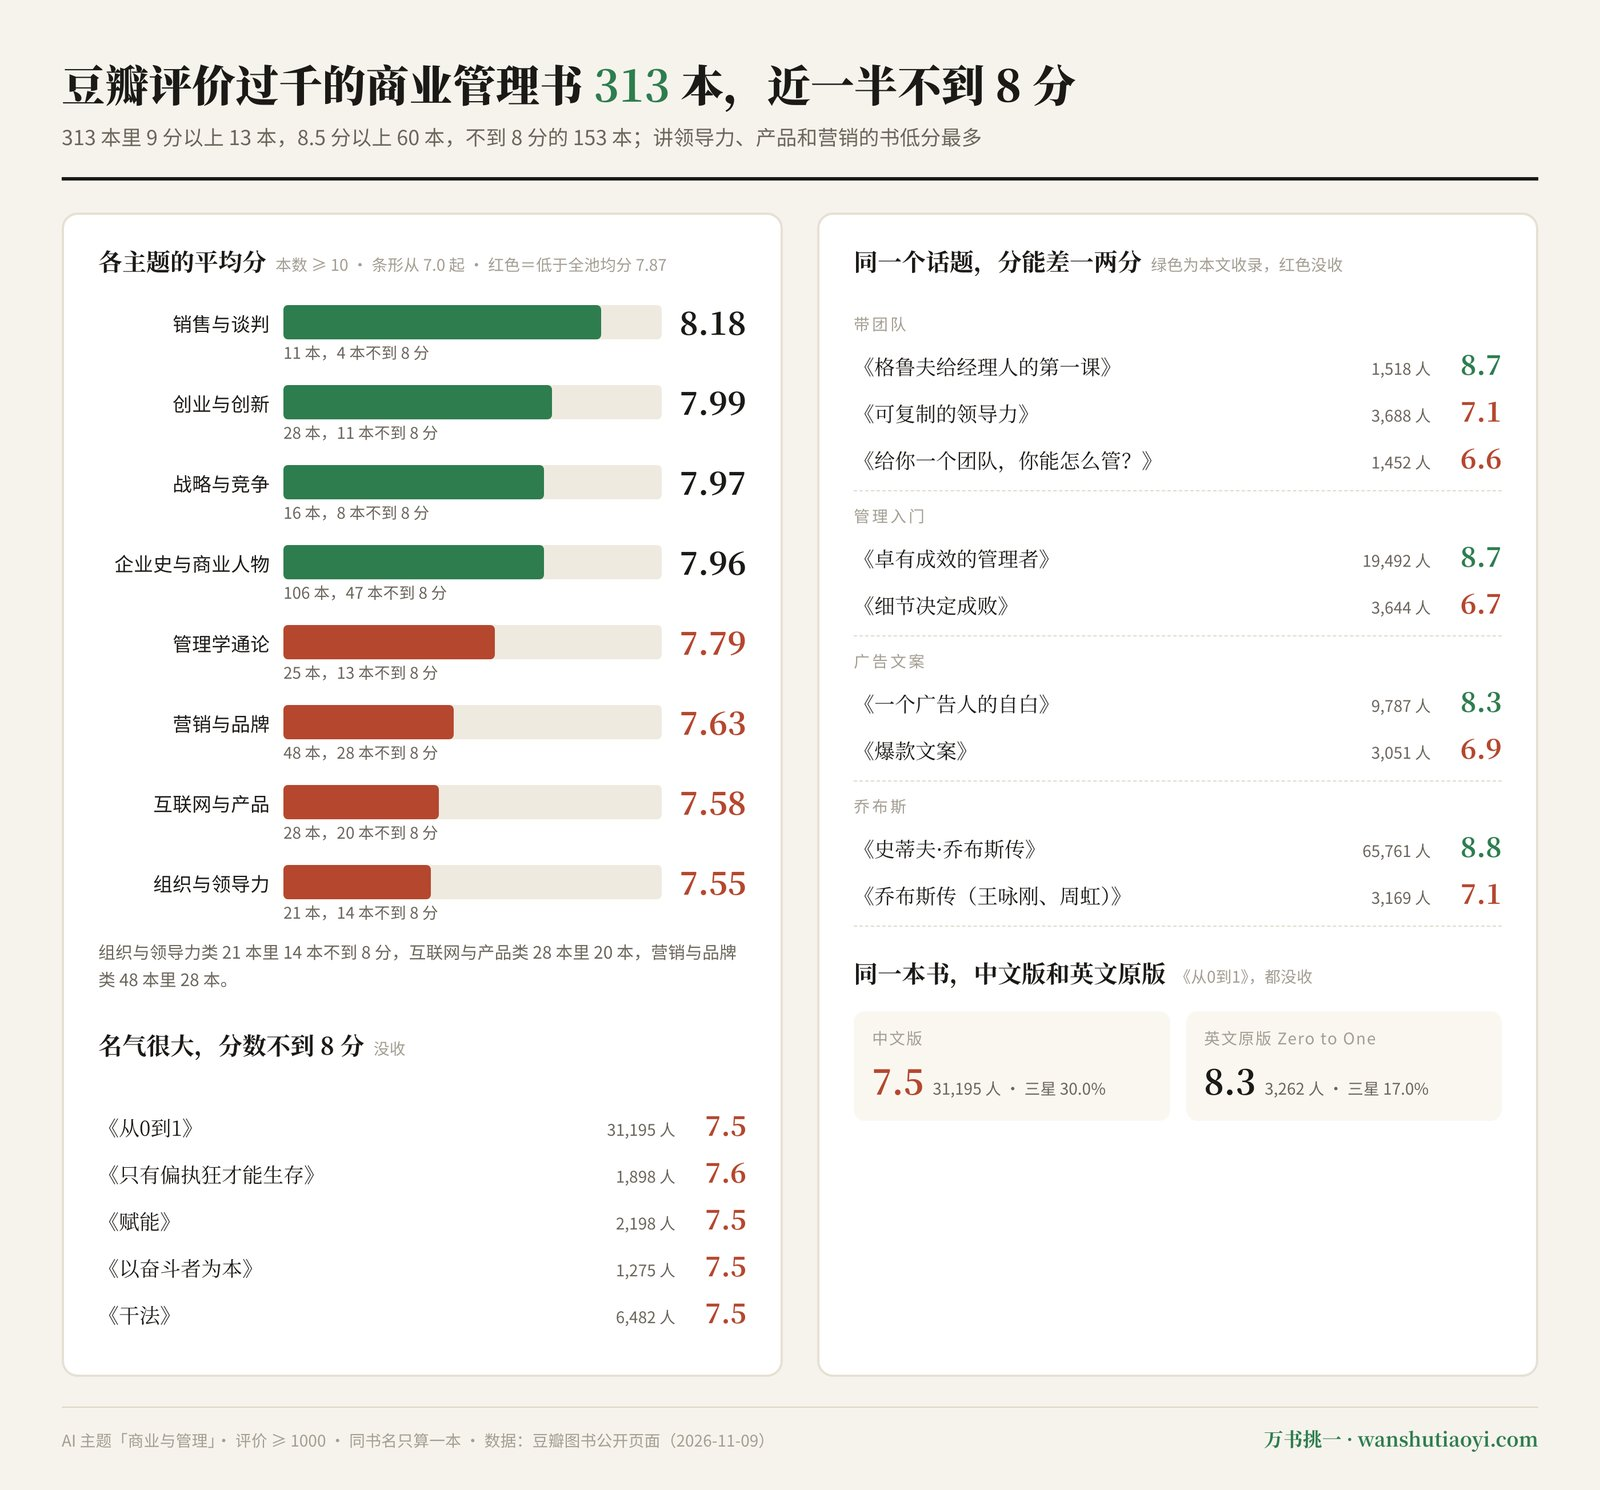
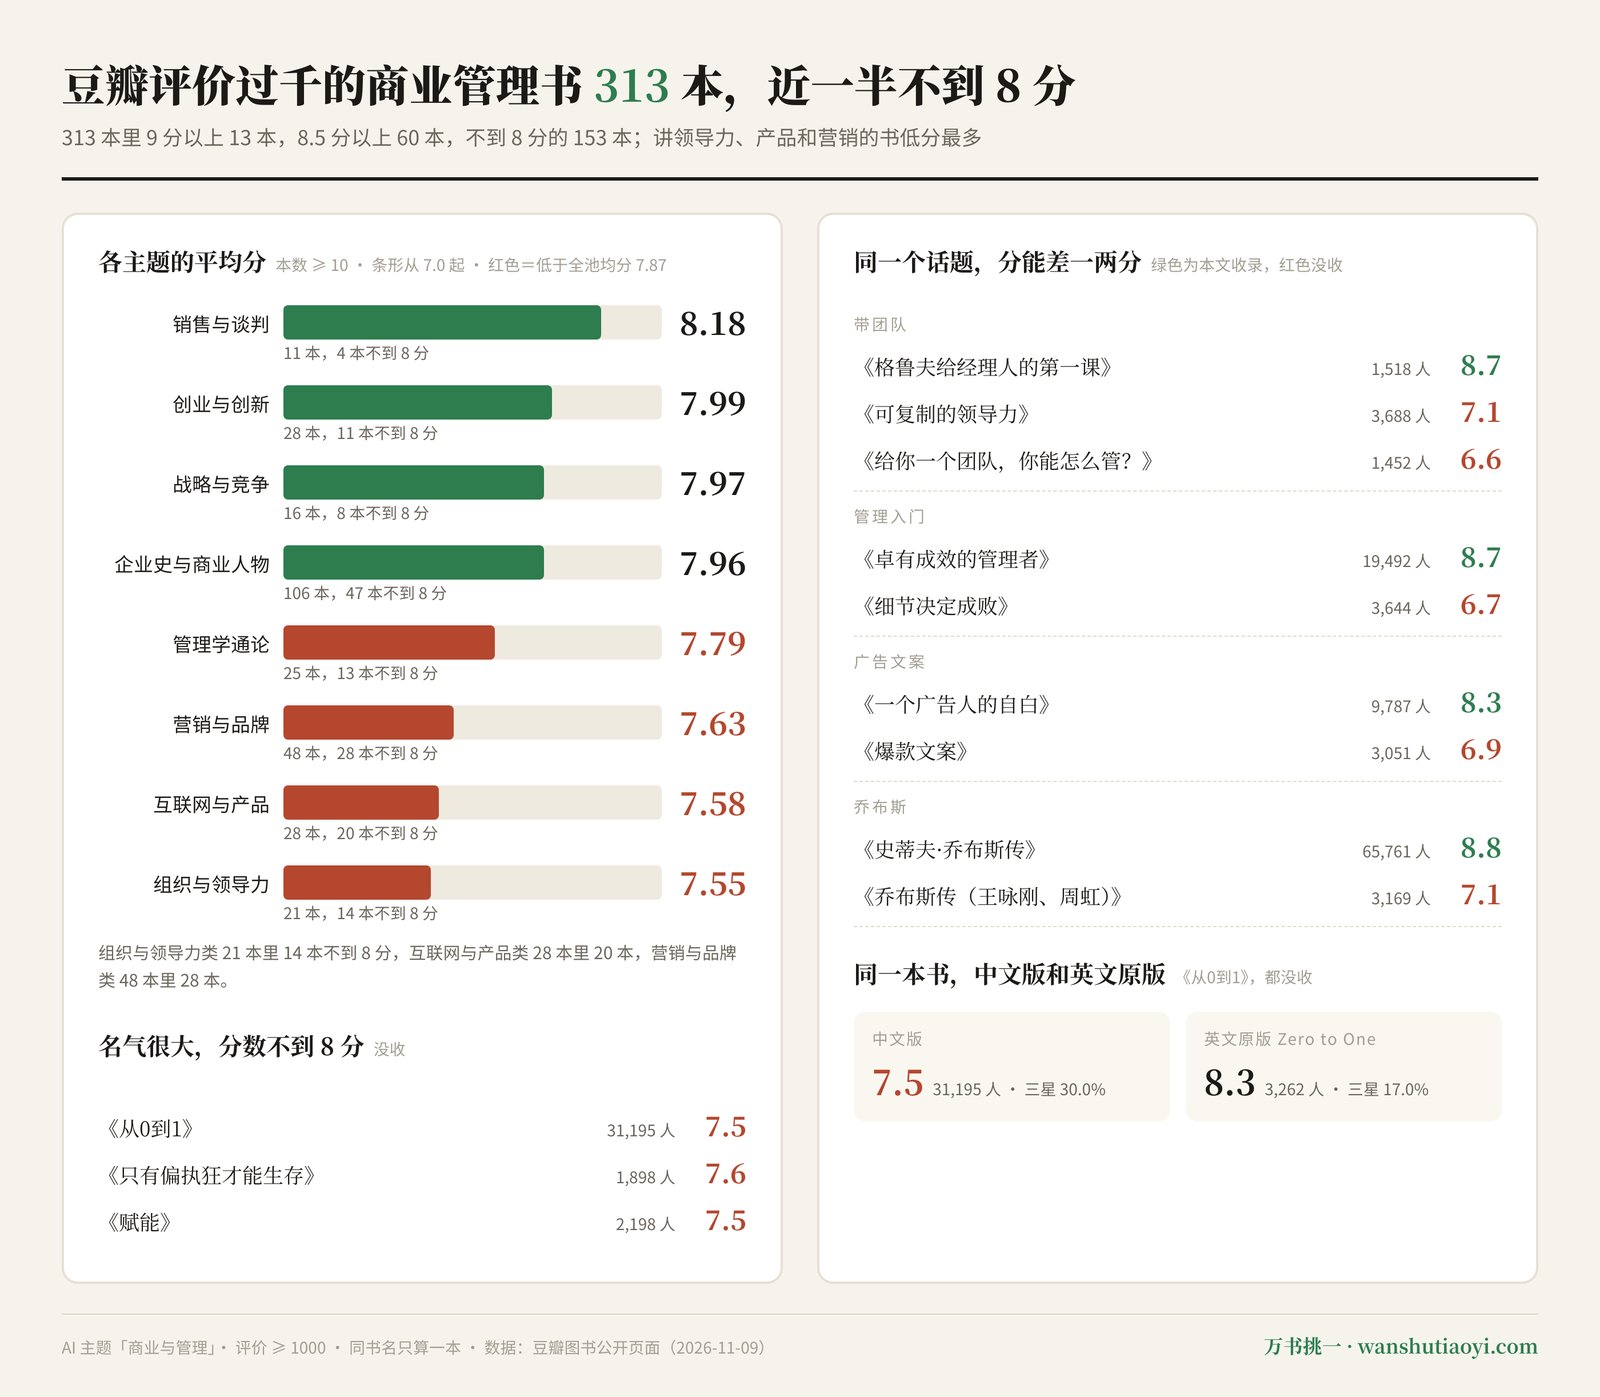
deploy: lanbing510/lanbing510-blog@21d852cbb250a6851cb9c2841a20d992bcee5bae

diff --git a/2026/11/10/WanShuTiaoYiMgmt.html b/2026/11/10/WanShuTiaoYiMgmt.html
@@ -3192,7 +3192,7 @@ var _hmt = _hmt || [];
 
 <p>管理书大概是机场书店里摆得最满的一类，也最容易买错。我用万书挑一的书库查了一遍，509 万本豆瓣图书里，AI 判定主题是「商业与管理」、评价人数过千的有 329 本，同书合并后 313 本，其中不到 8 分的 153 本，差不多一半；9 分以上的只有 13 本。</p>
 
-<p>名气大不代表分高：《从0到1》7.5 分，31,195 人评价，三星占 30.0%，是候选池里评价人数第三多的书；同一本书的英文原版 Zero to One，3,262 人评出 8.3。格鲁夫的另一本《只有偏执狂才能生存》7.6 分，1,898 人评价；《赋能》7.5 分，2,198 人评价；华为相关的《以奋斗者为本》7.5 分，1,275 人评价；稻盛和夫的《干法》7.5 分，6,482 人评价。书名一个比一个响亮，腰封上都印着「畅销」，光看封面分不出来。</p>
+<p>这里面不少名气很大的书，读者打分并不高。《从0到1》中文版（中信，2015）31,195 人评出 7.5 分，三星占 30.0%，是候选池里评价人数第三多的书；英文原版 Zero to One，3,262 人评出 8.3，两边读者群不一样，不是翻译的问题。格鲁夫的另一本《只有偏执狂才能生存》，评价过千的几个版本分别是 7.6 分、7.4 分、7.8 分，都没到 8 分。《赋能》2,198 人评出 7.5 分。7.5 分在豆瓣算中等，不是差书，只是同一个话题里，还有读者打分更高的选择。</p>
 
 <p>低分书集中在三类：讲组织与领导力的 21 本里 14 本不到 8 分，讲互联网与产品的 28 本里 20 本，讲营销与品牌的 48 本里 28 本。平均分最高的反倒是销售与谈判，11 本平均 8.18 分。</p>
 
